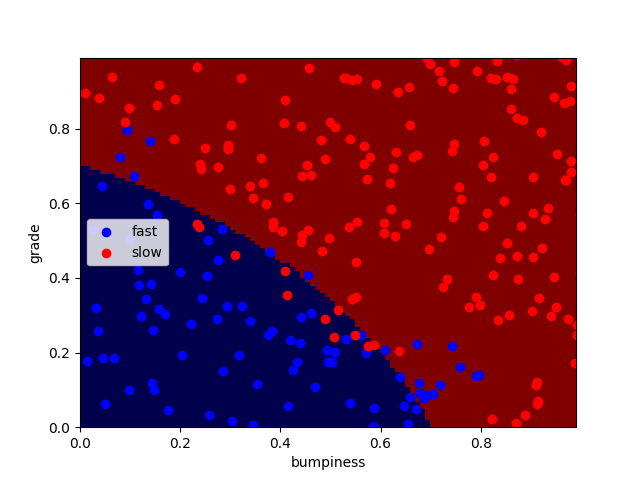
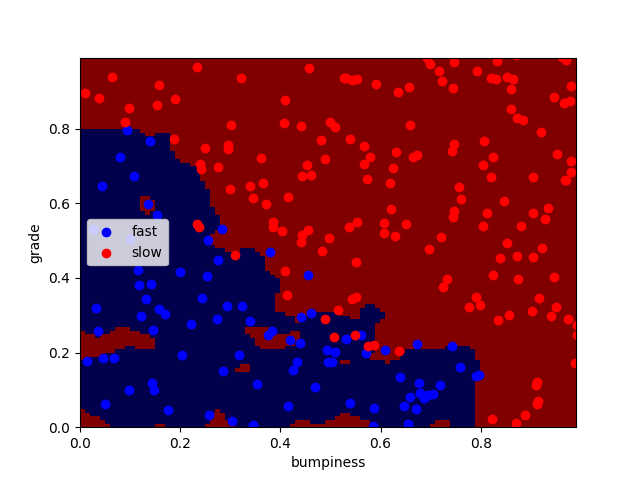
add many Udacity assignment files

diff --git a/mySVM_classifier.py b/mySVM_classifier.py
@@ -1,0 +1,63 @@
+import sys
+from time import time
+from class_vis import prettyPicture
+from prep_terrain_data import makeTerrainData
+from class_vis import prettyPicture, output_image
+
+import matplotlib.pyplot as plt
+import copy
+import numpy as np
+import pylab as pl
+
+
+features_train, labels_train, features_test, labels_test = makeTerrainData()
+
+
+########################## SVM #################################
+### we handle the import statement and SVC creation for you here
+
+
+
+
+
+#########################################################
+### your code goes here ###
+def SVMAccuracy(features_train, labels_train, features_test, labels_test):
+    """ compute the accuracy of your Naive Bayes classifier """
+    ### import the sklearn module for GaussianNB
+    from sklearn.svm import SVC
+
+    ### create classifier
+    clf = SVC(kernel="rbf", gamma=1000, C=1)
+    t0 = time()
+    ### fit the classifier on the training features and labels
+    clf.fit(features_train, labels_train)
+    print ("training time:", round(time()-t0, 3), "s")
+
+    ### use the trained classifier to predict labels for the test features
+    t1 = time()
+    pred = clf.predict(features_test)
+    print ("predict time:", round(time()-t1, 3), "s")
+
+    prettyPicture(clf, features_test, labels_test)
+    output_image("test.png", "png", open("test.png", "rb").read())
+
+
+    ### calculate and return the accuracy on the test data
+    ### this is slightly different than the example, 
+    ### where we just print the accuracy
+    ### you might need to import an sklearn module
+    from sklearn.metrics import accuracy_score
+    accuracy = accuracy_score(pred, labels_test)
+    return accuracy
+
+def submitAccuracy():
+    accuracy = SVMAccuracy(features_train, labels_train, features_test, labels_test)
+    return accuracy
+
+acc = submitAccuracy()
+print(acc)
+
+# ### draw the decision boundary with the text points overlaid
+# prettyPicture(clf, features_test, labels_test)
+# output_image("test.png", "png", open("test.png", "rb").read())

diff --git a/prepTerrainData.py b/prepTerrainData.py
@@ -1,0 +1,43 @@
+#!/usr/bin/python
+import random
+
+
+def makeTerrainData(n_points=1000):
+###############################################################################
+### make the toy dataset
+    random.seed(42)
+    grade = [random.random() for ii in range(0,n_points)]
+    bumpy = [random.random() for ii in range(0,n_points)]
+    error = [random.random() for ii in range(0,n_points)]
+    y = [round(grade[ii]*bumpy[ii]+0.3+0.1*error[ii]) for ii in range(0,n_points)]
+    for ii in range(0, len(y)):
+        if grade[ii]>0.8 or bumpy[ii]>0.8:
+            y[ii] = 1.0
+
+### split into train/test sets
+    X = [[gg, ss] for gg, ss in zip(grade, bumpy)]
+    split = int(0.75*n_points)
+    X_train = X[0:split]
+    X_test  = X[split:]
+    y_train = y[0:split]
+    y_test  = y[split:]
+
+    grade_sig = [X_train[ii][0] for ii in range(0, len(X_train)) if y_train[ii]==0]
+    bumpy_sig = [X_train[ii][1] for ii in range(0, len(X_train)) if y_train[ii]==0]
+    grade_bkg = [X_train[ii][0] for ii in range(0, len(X_train)) if y_train[ii]==1]
+    bumpy_bkg = [X_train[ii][1] for ii in range(0, len(X_train)) if y_train[ii]==1]
+
+#    training_data = {"fast":{"grade":grade_sig, "bumpiness":bumpy_sig}
+#            , "slow":{"grade":grade_bkg, "bumpiness":bumpy_bkg}}
+
+
+    grade_sig = [X_test[ii][0] for ii in range(0, len(X_test)) if y_test[ii]==0]
+    bumpy_sig = [X_test[ii][1] for ii in range(0, len(X_test)) if y_test[ii]==0]
+    grade_bkg = [X_test[ii][0] for ii in range(0, len(X_test)) if y_test[ii]==1]
+    bumpy_bkg = [X_test[ii][1] for ii in range(0, len(X_test)) if y_test[ii]==1]
+
+    test_data = {"fast":{"grade":grade_sig, "bumpiness":bumpy_sig}
+            , "slow":{"grade":grade_bkg, "bumpiness":bumpy_bkg}}
+
+    return X_train, y_train, X_test, y_test
+#    return training_data, test_data

diff --git a/DTClassifier.py b/DTClassifier.py
@@ -1,0 +1,40 @@
+import sys
+from time import time
+from class_vis import prettyPicture
+from prep_terrain_data import makeTerrainData
+from class_vis import prettyPicture, output_image
+
+import matplotlib.pyplot as plt
+import copy
+import numpy as np
+import pylab as pl
+
+features_train, labels_train, features_test, labels_test = makeTerrainData()
+
+########################## DECISION TREE #################################
+from sklearn import tree
+
+
+clf1 = tree.DecisionTreeClassifier(min_samples_split=2)
+clf1 = clf1.fit(features_train, labels_train)
+pred1 = clf1.predict(features_test)
+
+clf2 = tree.DecisionTreeClassifier(min_samples_split=50)
+clf2 = clf2.fit(features_train, labels_train)
+pred2 = clf2.predict(features_test)
+
+from sklearn.metrics import accuracy_score
+acc1 = accuracy_score(pred1, labels_test)
+acc2 = accuracy_score(pred2, labels_test)
+
+
+acc_min_samples_split_2 = accuracy_score(labels_test, clf1.predict(features_test))
+acc_min_samples_split_50 = accuracy_score(labels_test, clf2.predict(features_test))
+
+
+def submitAccuracies():
+    return {"acc_min_samples_split_2":round(acc_min_samples_split_2,3)
+    ,"acc_min_samples_split_50":round(acc_min_samples_split_50,3)}
+
+acc = submitAccuracies()
+print(acc)

diff --git a/classifyNB.py b/classifyNB.py
@@ -1,0 +1,24 @@
+#!/usr/bin/python
+
+
+
+#from prep_terrain_data.py import makeTerrainData
+
+def classify(features_train, labels_train):   
+    ### import the sklearn module for GaussianNB
+    ### create classifier
+    ### fit the classifier on the training features and labels
+    ### return the fit classifier
+    from sklearn.naive_bayes import GaussianNB
+    clf = GaussianNB()
+    fit = clf.fit(features_train, labels_train)
+    return fit
+    
+    #return clf.predict(features_test)
+    
+
+    
+    
+
+    
+    

diff --git a/testGauss.py b/testGauss.py
@@ -1,0 +1,17 @@
+import numpy as np
+from sklearn.naive_bayes import GaussianNB
+
+X = np.array([[-1, -1], [2, 1], [3, 3,], [1, 1], [2, 1], [3, 2]])
+
+Y = np.array([1, 1, 1, 2, 2, 2])
+
+clf = GaussianNB()
+clf.fit(X, Y)
+
+print(clf.predict([[-0.8, 1]]))
+
+
+## from sklearn.naive_bayes import GaussianNB
+## clf = GaussianNB()
+## clf.fit(features_train, labels_train)
+## pred = clf.predict(features_test)

diff --git a/studentCode.py b/studentCode.py
@@ -12,3 +12,4 @@ features_train, labels_train, features_test, labels_test = makeTerrainData()
 def submitAccuracy():
     accuracy = NBAccuracy(features_train, labels_train, features_test, labels_test)
     return accuracy
+
